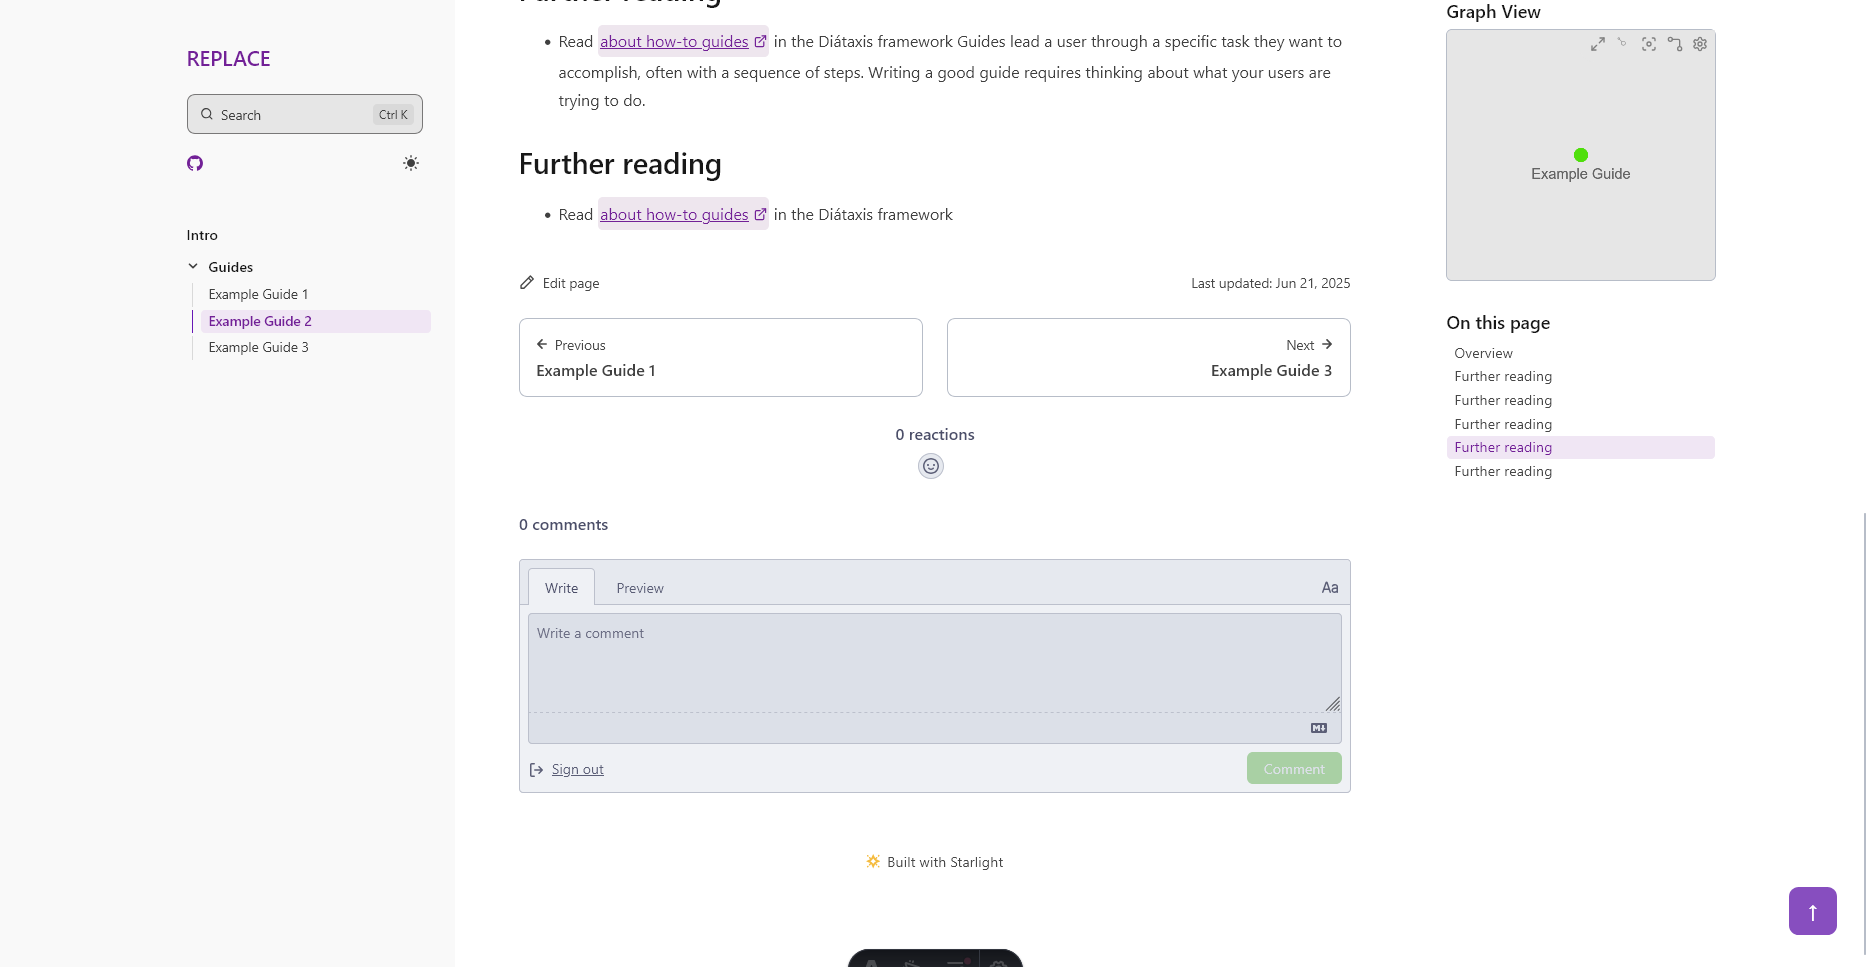
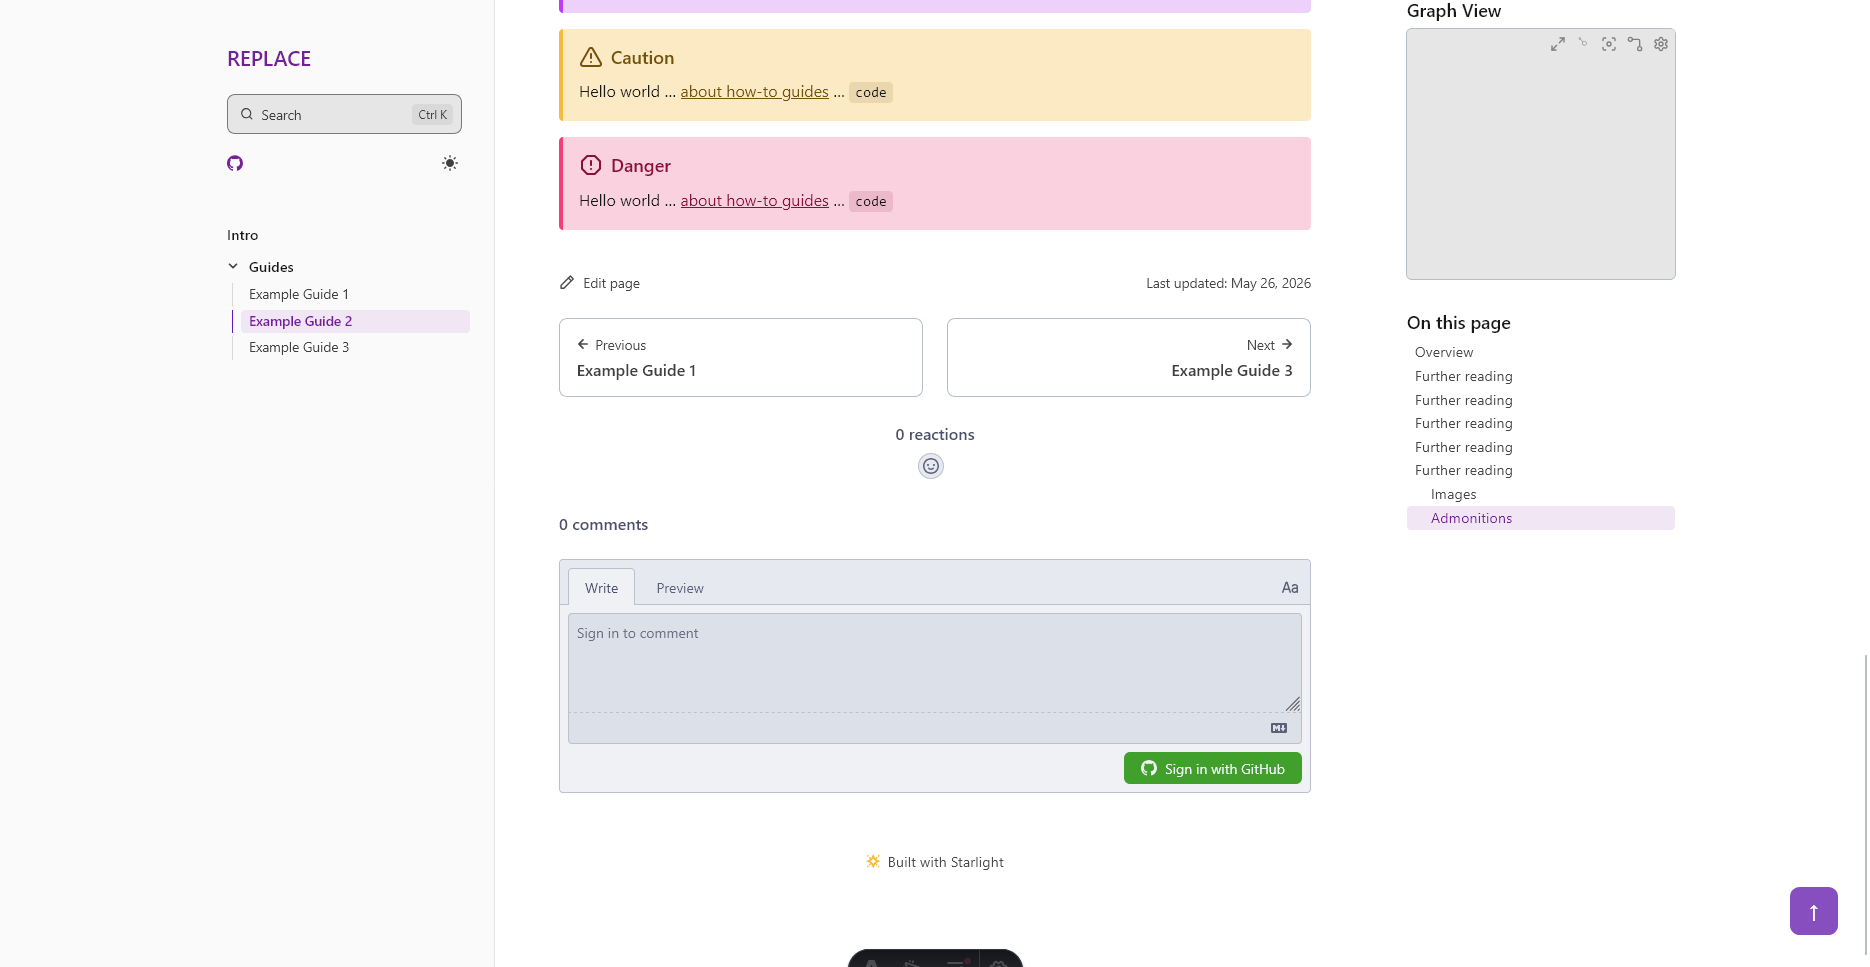
Update CSS and example MD

diff --git a/src/assets/custom.css b/src/assets/custom.css
@@ -19,13 +19,13 @@
   --custom-inside-color: #1e1e20;
   --custom-outside-color: #1a1a1c;
   --custom-border-color: #454848;
+  --custom-sidebar-border-color: #323232;
   --custom-mobile-header-shadow-color: rgba(255, 255, 255, 0.3);
   --custom-body-highlight-color: #2d262d;
 
-  .sl-markdown-content strong:not(:has(> code)),
-  .sl-markdown-content em,
-  .sl-markdown-content a:not(:has(> code)) {
-    border: 1px solid #4c4b4b;
+  .sl-markdown-content a:not(:has(> code)):hover {
+    text-decoration-thickness: 2px;
+    color: var(--sl-color-accent-high);
   }
 }
 
@@ -49,15 +49,11 @@
   --sl-color-hairline: #b7bdc8;
 
   --custom-inside-color: #fff;
-  --custom-outside-color: #f9f9f9;
+  --custom-outside-color: #fafafa;
   --custom-border-color: #aaa;
+  --custom-sidebar-border-color: #e6e6e6;
   --custom-mobile-header-shadow-color: rgba(0, 0, 0, 0.3);
   --custom-body-highlight-color: #eee6ee;
-
-  /* Hover text color only for light theme */
-  .sl-markdown-content a:not(:has(> code)):hover {
-    color: #a86ec4;
-  }
 
   :where(.right-sidebar a[aria-current="true"]) {
     background-color: #f0e6f4;
@@ -66,10 +62,15 @@
   :where(.sidebar a[aria-current="page"]) {
     background-color: #f0e6f4;
   }
+
+  .sl-markdown-content a:not(:has(> code)):hover {
+    text-decoration-thickness: 2px;
+    color: var(--sl-color-accent);
+  }
 }
 
 :root {
-  --sl-content-width: 60rem;
+  --sl-content-width: 55rem;
   --sl-text-5xl: 2.2rem;
   --sl-text-4xl: 1.8rem;
   --sl-text-3xl: 1.6rem;
@@ -79,41 +80,12 @@
   --sl-text-sm: 0.85rem;
   --sl-text-base: 0.9rem;
 
-  /* Highlighted color behind bold, italic, and hyperlink texts */
   .sl-markdown-content strong {
     font-weight: 600;
   }
-  .sl-markdown-content strong:not(:has(> code)),
-  .sl-markdown-content em,
-  .sl-markdown-content a:not(:has(> code)) {
-    background-color: var(--custom-body-highlight-color);
-    padding: 0.15rem;
-    border-radius: 0.3rem;
-    display: inline;
-    -webkit-box-decoration-break: clone;
-    box-decoration-break: clone;
-  }
-
   .sl-markdown-content a:not(:has(> code)) span {
     display: inline-flex;
     vertical-align: center;
-    align-self: center;
-    margin-left: 0.25rem;
-  }
-
-  .sl-markdown-content strong > a:not(:has(> code)),
-  .sl-markdown-content a:not(:has(> code)) > strong {
-    border: none !important;
-    background: transparent !important;
-    box-shadow: none !important;
-    padding: 0 !important;
-    -webkit-box-decoration-break: initial !important;
-    box-decoration-break: initial !important;
-  }
-
-  .sl-markdown-content a[target="_blank"] {
-    display: inline-flex;
-    align-items: center;
   }
 
   .sl-heading-wrapper {
@@ -220,6 +192,7 @@
 
   .sidebar-pane {
     background-color: var(--custom-outside-color);
+    border-right: 1px solid var(--custom-sidebar-border-color);
   }
 
   .top-level {

diff --git a/src/content/docs/guides/example2.md b/src/content/docs/guides/example2.md
@@ -49,17 +49,17 @@ Writing a good guide requires thinking about what your users are trying to do.
 ### Admonitions
 
 :::note
-Hello world
+Hello world ... [about how-to guides](#) ... `code`
 :::
 
 :::tip
-Hello world
+Hello world ... [about how-to guides](#) ... `code`
 :::
 
 :::caution
-Hello world
+Hello world ... [about how-to guides](#) ... `code`
 :::
 
 :::danger
-Hello world
+Hello world ... [about how-to guides](#) ... `code`
 :::
